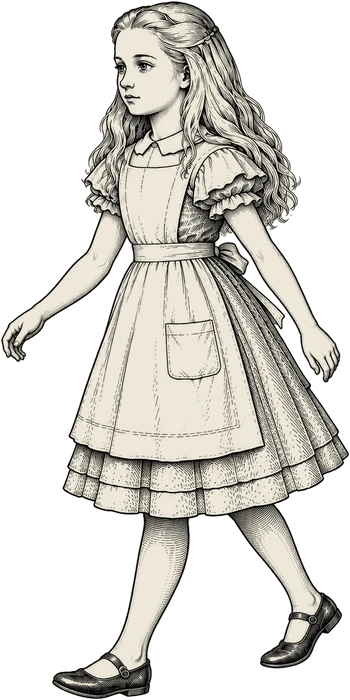
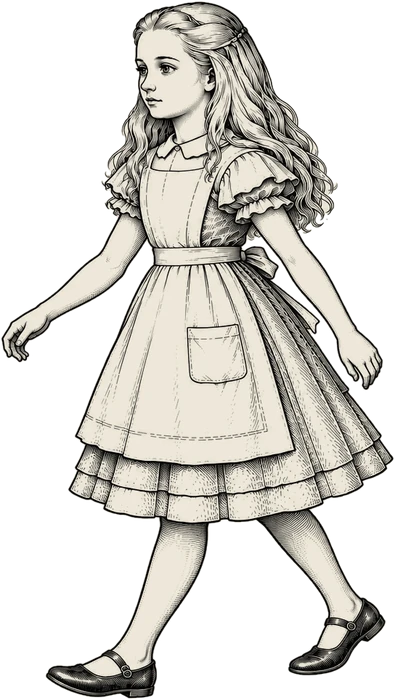
Alice's walk: two matching steps from the owner's new drawing (replaces walk_a and the walk_b screenshot)
Claude-Session: https://claude.ai/code/session_01XCrTmcLSNBEvemRhk5i2MQ

Changed region(s): [[0.1143, 0.0, 1.0, 1.0], [0.0, 0.42, 0.1429, 0.51], [0.8286, 0.39, 0.8571, 0.42]]

diff --git a/src/main.js b/src/main.js
@@ -142,8 +142,8 @@ async function main() {
       sit: { ...ai.alice_sit, facesLeft: false, height: 0.85, hand: [0.65, 0.7] },
       stand: { ...ai.alice_stand, facesLeft: true, hand: [0.55, 0.57] },
       ...posed,
-      walk_a: { ...posed.walk_a, hand: [0.04, 0.5] },
-      walk_b: { ...posed.walk_b, hand: [0.03, 0.5] },
+      walk_a: { ...posed.walk_a, hand: [0.03, 0.48] },
+      walk_b: { ...posed.walk_b, hand: [0.09, 0.45] },
       jump: { ...posed.jump, hand: [0.03, 0.37] },
       fall: { ...posed.fall, hand: [0.06, 0.06] },        // the marmalade jar, in her raised left hand (Chapter I)
       hold: { ...posed.hold, hand: [0.05, 0.17] },        // the key or bottle held up (Chapter I)

diff --git a/tools/compose_poses.py b/tools/compose_poses.py
@@ -34,12 +34,11 @@ POSES = {
 # her full height; matched by head size), and bodyX, the x in the scaled image that lines
 # up with the standing figure's centre (her belt is ~20 px left of that centre).
 DRAWN = {
-    "walk_a": {"src": "source/ai/alice_walk_a.webp", "h": 700, "bodyX": 185},
+    # The walk: one drawing of two matching steps (owner, 2026-10-13), split in two; bodyX is
+    # the apron's centre line. Replaces the earlier walk_a and the walk_b screenshot.
+    "walk_a": {"src": "source/ai/alice_walk_pair.webp", "crop": (100, 0, 740, 1024), "h": 700, "torso": 395},
     "jump": {"src": "source/ai/alice_jump.webp", "h": 751, "bodyX": 350},
-    # A phone screenshot (382x515): grey fade over the bottom and two buttons, removed
-    # below. Interim until the full-size original is sent. Drawn facing right: mirrored.
-    "walk_b": {"src": "source/ai/alice_walk_b_screenshot.png", "h": 620, "bodyX": 193, "mirror": True,
-               "screenshot": {"fade_from": 430, "blank": [(0, 468, 58, 515), (336, 470, 382, 515)]}},
+    "walk_b": {"src": "source/ai/alice_walk_pair.webp", "crop": (770, 0, 1410, 1024), "h": 700, "torso": 1057},
     # Chapter II (matched by eye against the standing Alice: dress, hands and head size).
     "feet": {"src": "source/ai/alice2_feet.webp", "h": 695, "bodyX": None},
     "longneck": {"src": "source/ai/alice2_longneck.webp", "h": 950, "bodyX": None},
@@ -99,7 +98,14 @@ def drawn(spec):
         if "screenshot" in spec:
             unscreenshot(src, spec["screenshot"], f"{d}/clean.png")
             src = f"{d}/clean.png"
-        subprocess.run([sys.executable, "tools/whitecut.py", src, f"{d}/cut.png"], check=True)
+        crop = ["--crop", ",".join(map(str, spec["crop"]))] if "crop" in spec else []
+        subprocess.run([sys.executable, "tools/whitecut.py", src, f"{d}/cut.png", *crop], check=True)
+        if "torso" in spec:  # where the body's centre line falls in the cut-out (cropped to the figure)
+            import numpy as np
+            g = np.asarray(Image.open(src).convert("L").crop(spec["crop"])) < 225
+            x0 = max(0, np.nonzero(g.any(0))[0].min() - 2) + spec["crop"][0]
+            h = Image.open(f"{d}/cut.png").height
+            spec["bodyX"] = (spec["torso"] - x0) * spec["h"] / h
         img = Image.open(f"{d}/cut.png").convert("RGBA")
         img.load()
     if spec.get("mirror"):

diff --git a/PROVENANCE.md b/PROVENANCE.md
@@ -132,3 +132,4 @@ Every shipped asset is listed here with its source. AI-generated or AI-modified 
 | ai_vignette_stairs | `public/art/ai/vignettes/stairs.webp` | AI | Generated in the same conversation (docs/ASSETS_MASTER.md, Chapter I prompt 37); original in `source/ai/vignette_stairs.webp` | OpenAI ChatGPT (GPT-6 chat); OpenAI image generation, exact image model not disclosed; received 2026-10-12 | Whole image generated (with its own speech bubble). Paper-tinted, fitted to the thought oval (`tools/ch1_art.py`). Used in Chapter I, the fall. | 2026-10-12 | Owner (generated), Claude Code (processed) |
 | ai_vignette_globe | `public/art/ai/vignettes/globe.webp` | AI | Generated in the same conversation (docs/ASSETS_MASTER.md, Chapter I prompt 38); original in `source/ai/vignette_globe.webp` | OpenAI ChatGPT (GPT-6 chat); OpenAI image generation, exact image model not disclosed; received 2026-10-12 | Whole image generated. The caption printed below the oval cropped off; paper-tinted, fitted to the thought oval (`tools/ch1_art.py`). Used in Chapter I, the fall. | 2026-10-12 | Owner (generated), Claude Code (processed) |
 | ai_alice3_call_v2 | `public/art/ai/poses/call.webp` | AI | Second version of Chapter III prompt 7; original in `source/ai/alice3_call_v2.webp` | OpenAI ChatGPT (GPT-6 chat); OpenAI image generation, exact image model not disclosed; received 2026-10-12 | Whole image generated. Cut out, paper-tinted and scaled to the standing Alice (`tools/compose_poses.py`). Replaces the first version (kept as a spare). | 2026-10-12 | Owner (generated), Claude Code (processed) |
+| ai_alice_walk_pair | `public/art/ai/poses/walk_a.webp`, `walk_b.webp` | AI | Alice walking, two matching steps in one drawing (owner, 2026-10-13); original in `source/ai/alice_walk_pair.webp` | OpenAI ChatGPT (GPT-6 chat); OpenAI image generation, exact image model not disclosed; received 2026-10-13 | Whole image generated. Split in two, cut out, paper-tinted and scaled to the standing Alice (`tools/compose_poses.py`). Replaces the earlier walk_a and the walk_b phone screenshot (both kept in source/ai). | 2026-10-13 | Owner (generated), Claude Code (processed) |

diff --git a/docs/HANDOFF.md b/docs/HANDOFF.md
@@ -118,7 +118,7 @@ A wrong count throws "cue word not found" when the chapter opens; the scene's ca
 
 ## Known gaps (across chapters)
 - Almost every character and set is a placeholder; the rough-cut notes list each chapter's.
-- `walk_b` is from a phone screenshot (near profile); a full-size three-quarter redraw is wanted.
+- The walk is two matching steps from one drawing (`source/ai/alice_walk_pair.webp`, 2026-10-13); a four-frame cycle (#43) would be smoother but is optional.
 - Giant Alice (Chapters II, IV) is a scaled standing/sitting figure until the giant poses arrive.
 - At tiny scale the hall floor's cracks look very large.
 - Chapter I leftovers from Notes 1.0: the leaf heap (note 4), the garden behind the little door (note 8), the Rabbit's hop (note 6) wait on their art.
